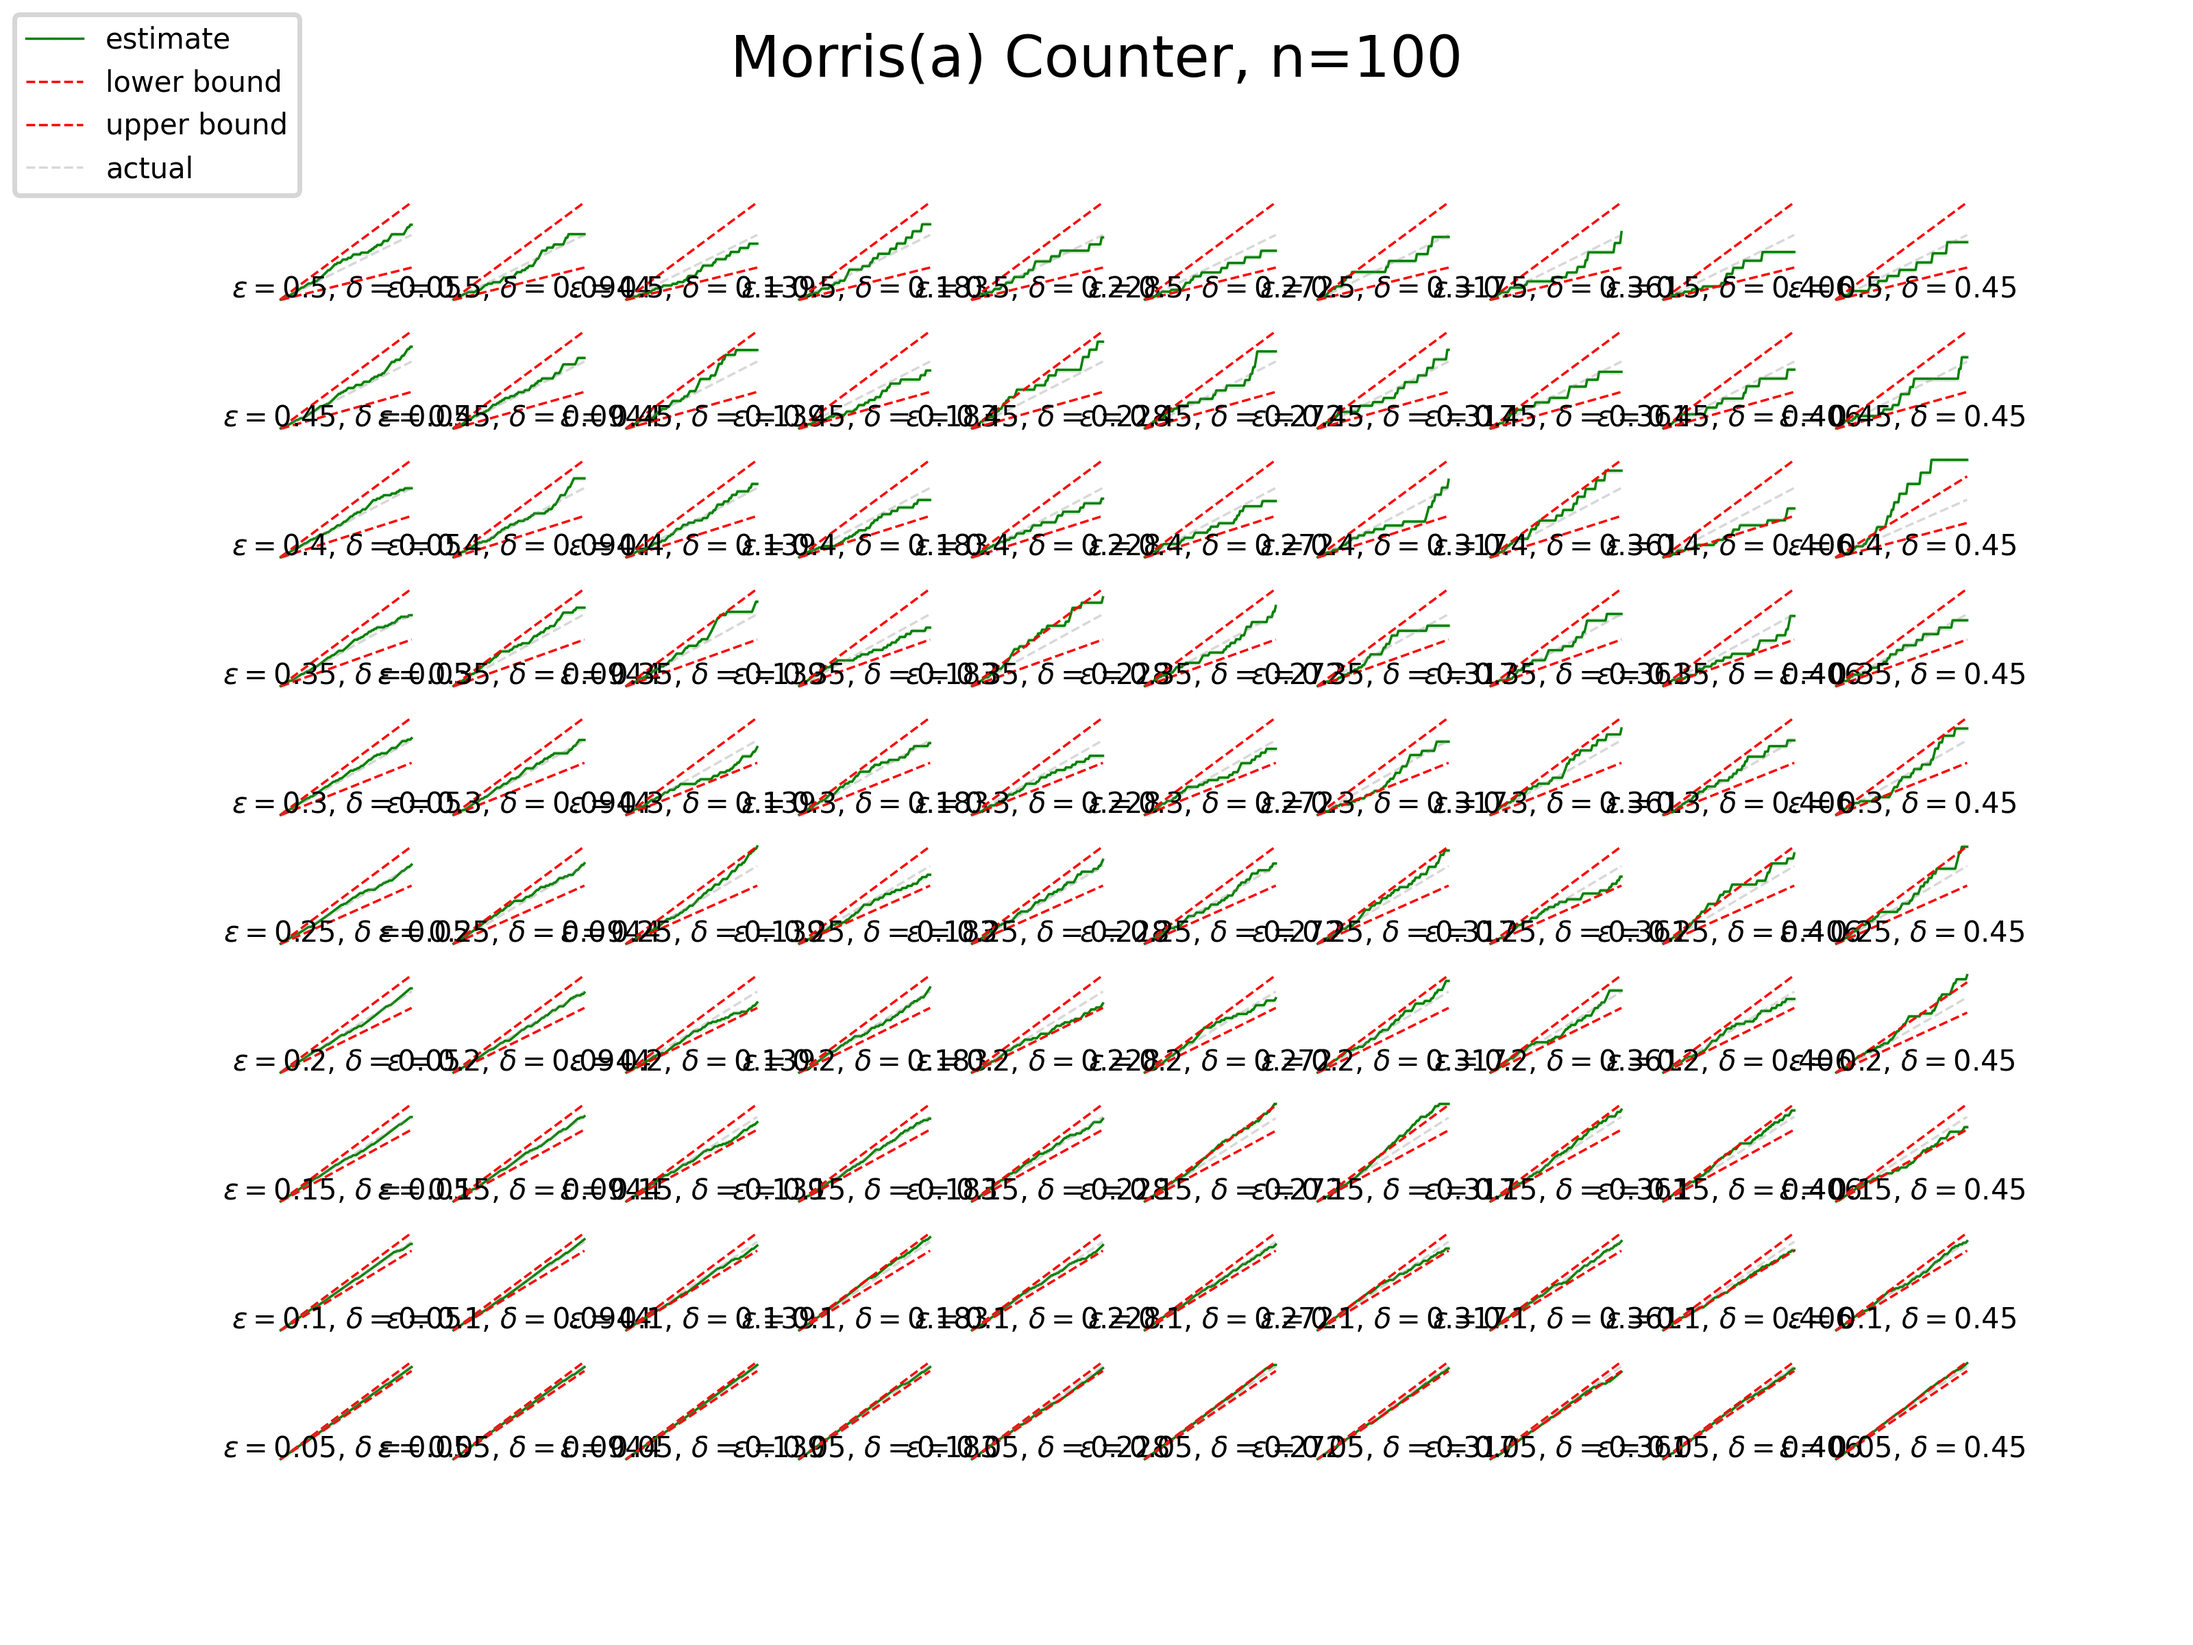
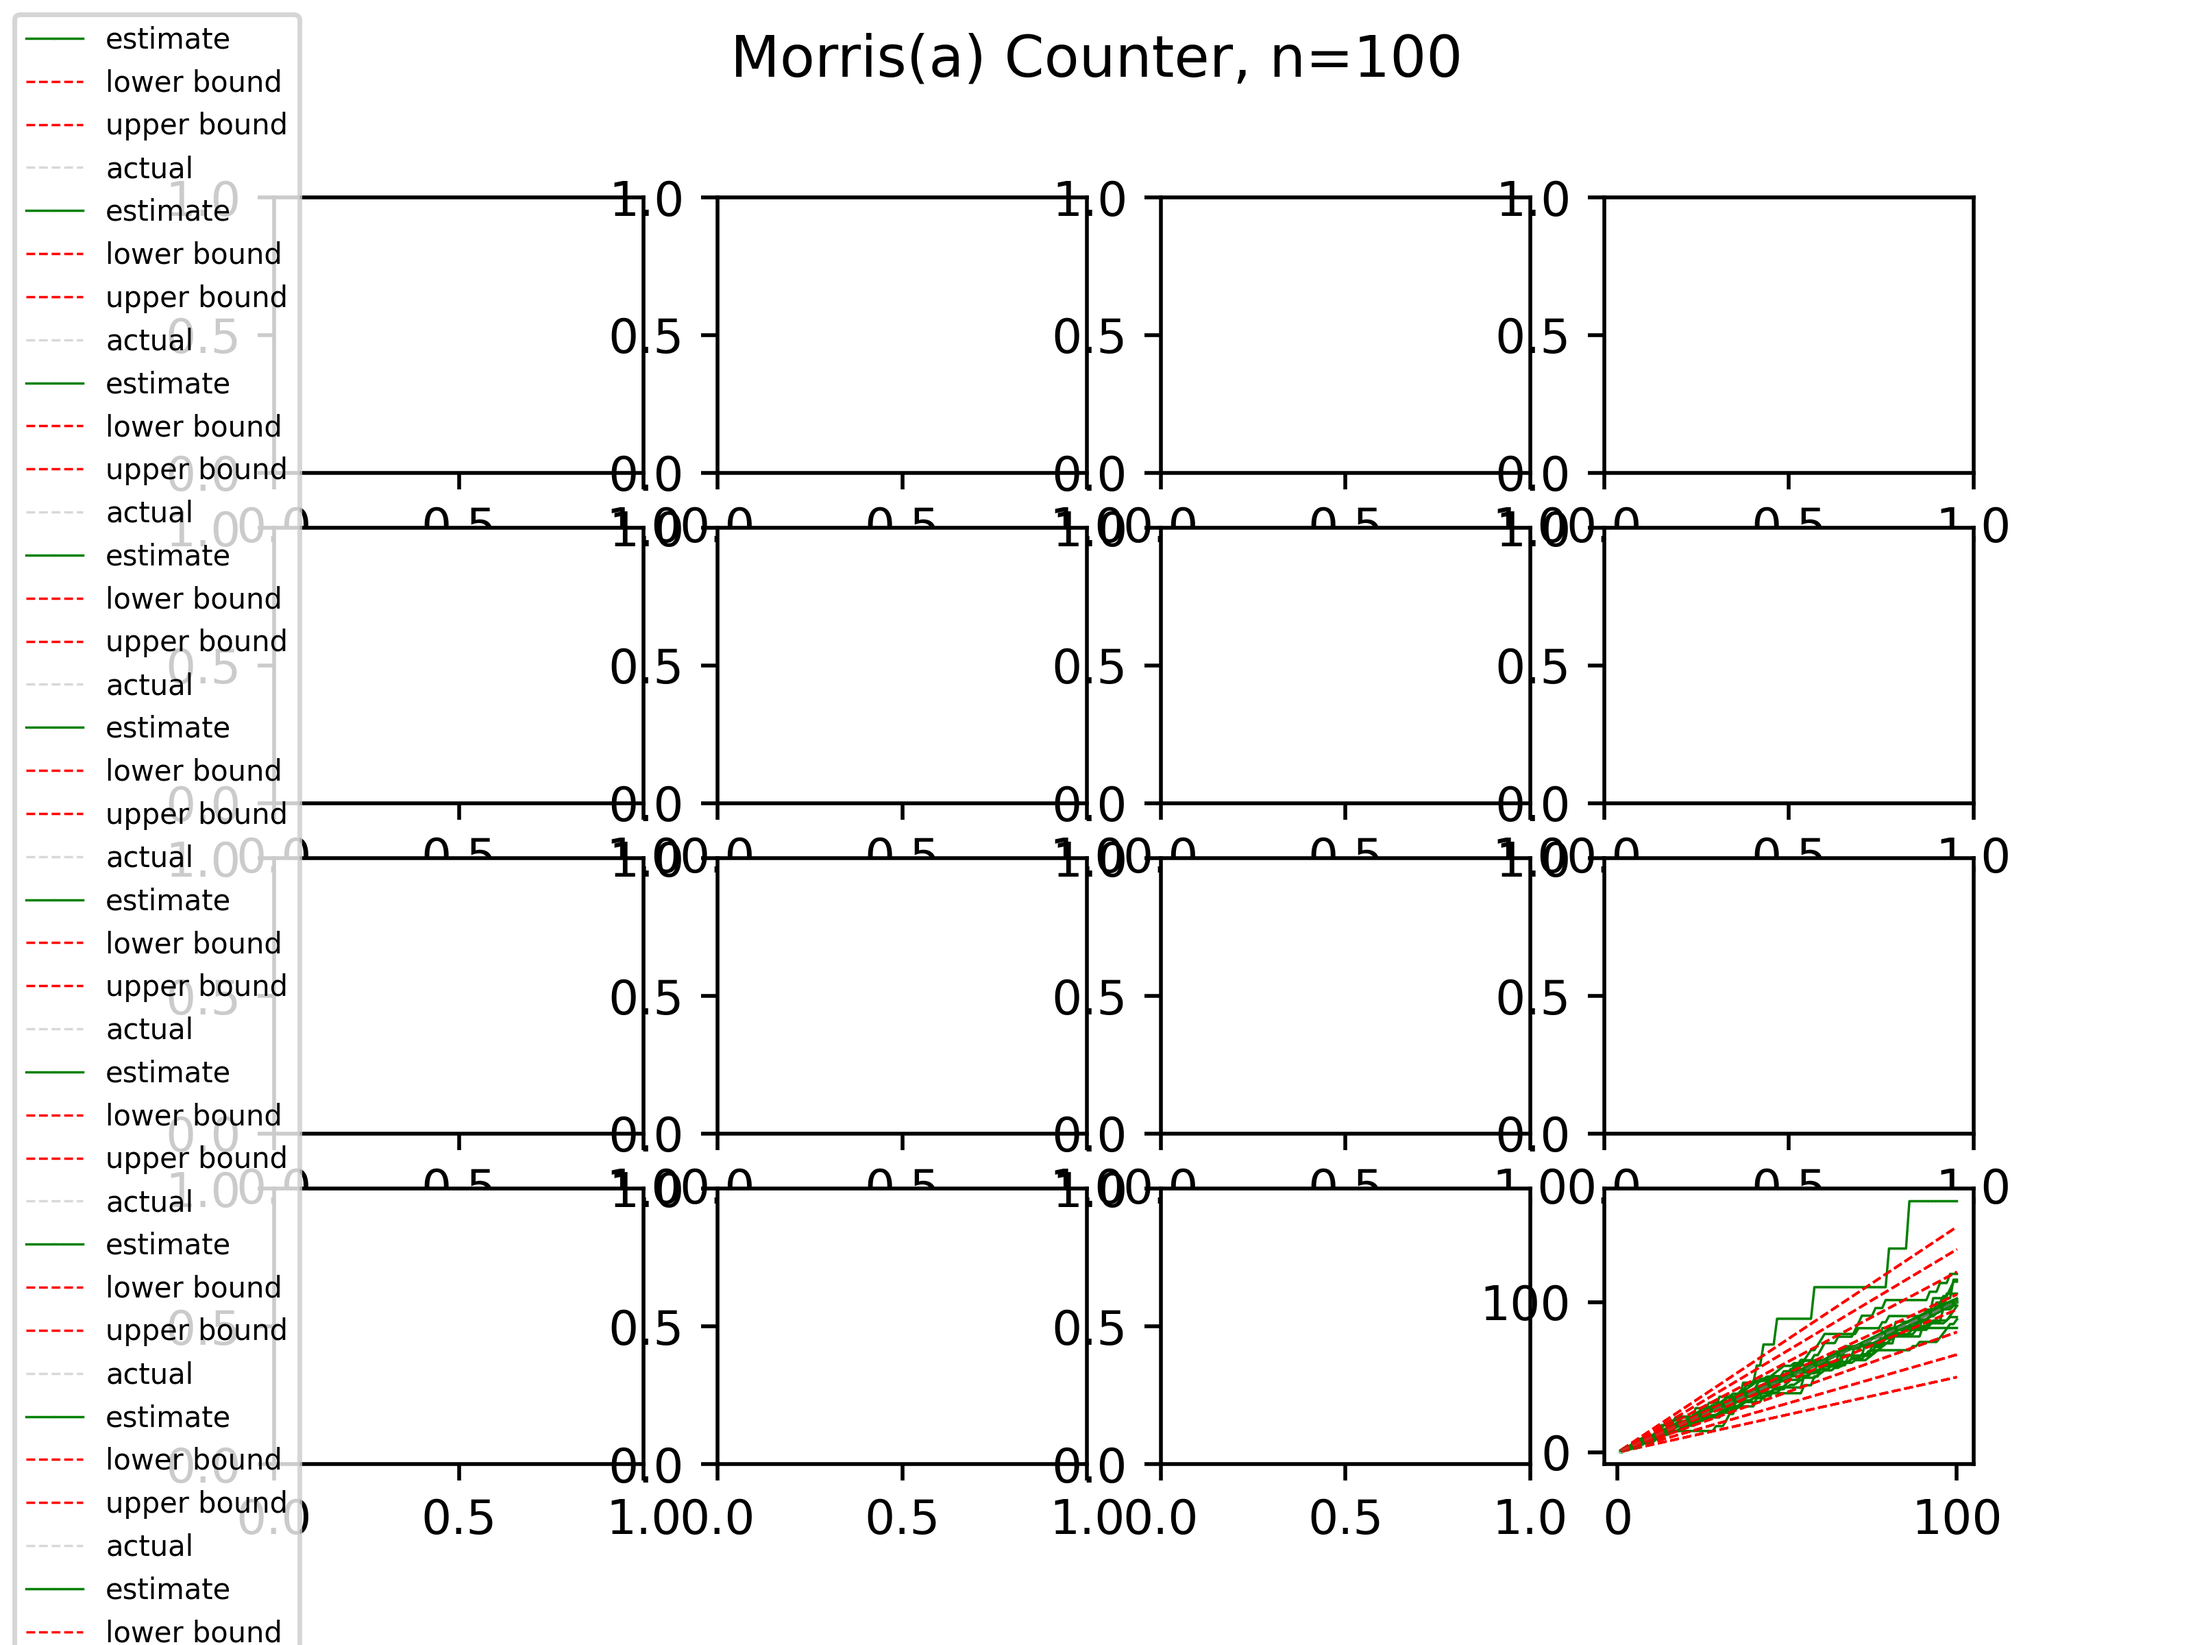
Update: Plots generated

diff --git a/plot_morriscounter.py b/plot_morriscounter.py
@@ -28,7 +28,7 @@ from morriscounter import MorrisCounter
 * Generate plots based on the arrays formed 
 '''
 
-def test(counter: MorrisCounter, n: int, axis: Axis) -> None:
+def test(counter: MorrisCounter, n: int, graphNo:int) -> None:
   uppers, lowers, estimates, actuals = [], [], [], []
   for N in range(1, n+1): 
     counter.increment() 
@@ -49,12 +49,14 @@ def test(counter: MorrisCounter, n: int, axis: Axis) -> None:
   # Create the graphs based on the four arrays. 
   MARKER_SIZE=.01
   LINE_WIDTH=.5
-  axis.plot(actuals, estimates, label="estimate", marker="o", color="green", markersize=MARKER_SIZE, linewidth=LINE_WIDTH)
-  axis.plot(actuals, lowers, label="lower bound", color="red", linestyle="dashed", markersize=MARKER_SIZE, linewidth=LINE_WIDTH)
-  axis.plot(actuals, uppers, label="upper bound", color="red", linestyle="dashed", markersize=MARKER_SIZE, linewidth=LINE_WIDTH)
-  axis.plot(actuals, actuals, label="actual", linestyle="dashed", color="grey", markersize=MARKER_SIZE, linewidth=LINE_WIDTH, alpha=0.3)
-  axis.set_title(rf"$\varepsilon={counter.epsilon:.3g}$, $\delta={counter.delta:.3g}$", fontsize=6, y=-0.2)
-  axis.axis('off')
+  plt.plot(actuals, estimates, label="estimate", marker="o", color="green", markersize=MARKER_SIZE, linewidth=LINE_WIDTH)
+  plt.plot(actuals, lowers, label="lower bound", color="red", linestyle="dashed", markersize=MARKER_SIZE, linewidth=LINE_WIDTH)
+  plt.plot(actuals, uppers, label="upper bound", color="red", linestyle="dashed", markersize=MARKER_SIZE, linewidth=LINE_WIDTH)
+  plt.plot(actuals, actuals, label="actual", linestyle="dashed", color="grey", markersize=MARKER_SIZE, linewidth=LINE_WIDTH, alpha=0.3)
+  # plt.show()
+  plt.savefig('plots/fig'+str(graphNo)+'.png', dpi=1000)
+  plt.cla()
+  
 
 
 
@@ -76,22 +78,16 @@ def test(counter: MorrisCounter, n: int, axis: Axis) -> None:
 
 if __name__ == '__main__':
   n = 100
-  bins = 10
-  fig, axes = plt.subplots(bins, bins)
+  bins = 4
+  graphNo = 1
+  # fig, axes = plt.subplots(bins, bins)
   print(np.linspace(.5, .95, bins))
   for r, accuracy in enumerate(np.linspace(.5, .95, bins)): # Create an array of evenly distributed numbers between 0.5 and 0.95 
     for c, max_failure_rate in enumerate(np.linspace(0.05, .45, bins)): 
       print(f"{accuracy=}, {max_failure_rate=}") 
       counter = MorrisCounter(accuracy=accuracy, max_failure_rate=max_failure_rate) # Iterate across each array and make a counter instance
-      test(counter, n=n, axis=axes[r][c]) # Pass the counter instance to the test function. 
-      
-
-
-  # Create and Save the graph
-  fig.suptitle(f"Morris(a) Counter, {n=}")
-  handles, labels = axes[-1][-1].get_legend_handles_labels()
-  fig.legend(handles, labels, loc='upper left', prop={'size': 6})
-  fig.savefig("plots/morris-a.png", dpi=500)
+      test(counter, n=n, graphNo=graphNo) # Pass the counter instance to the test function. 
+      graphNo += 1
 
 
 
